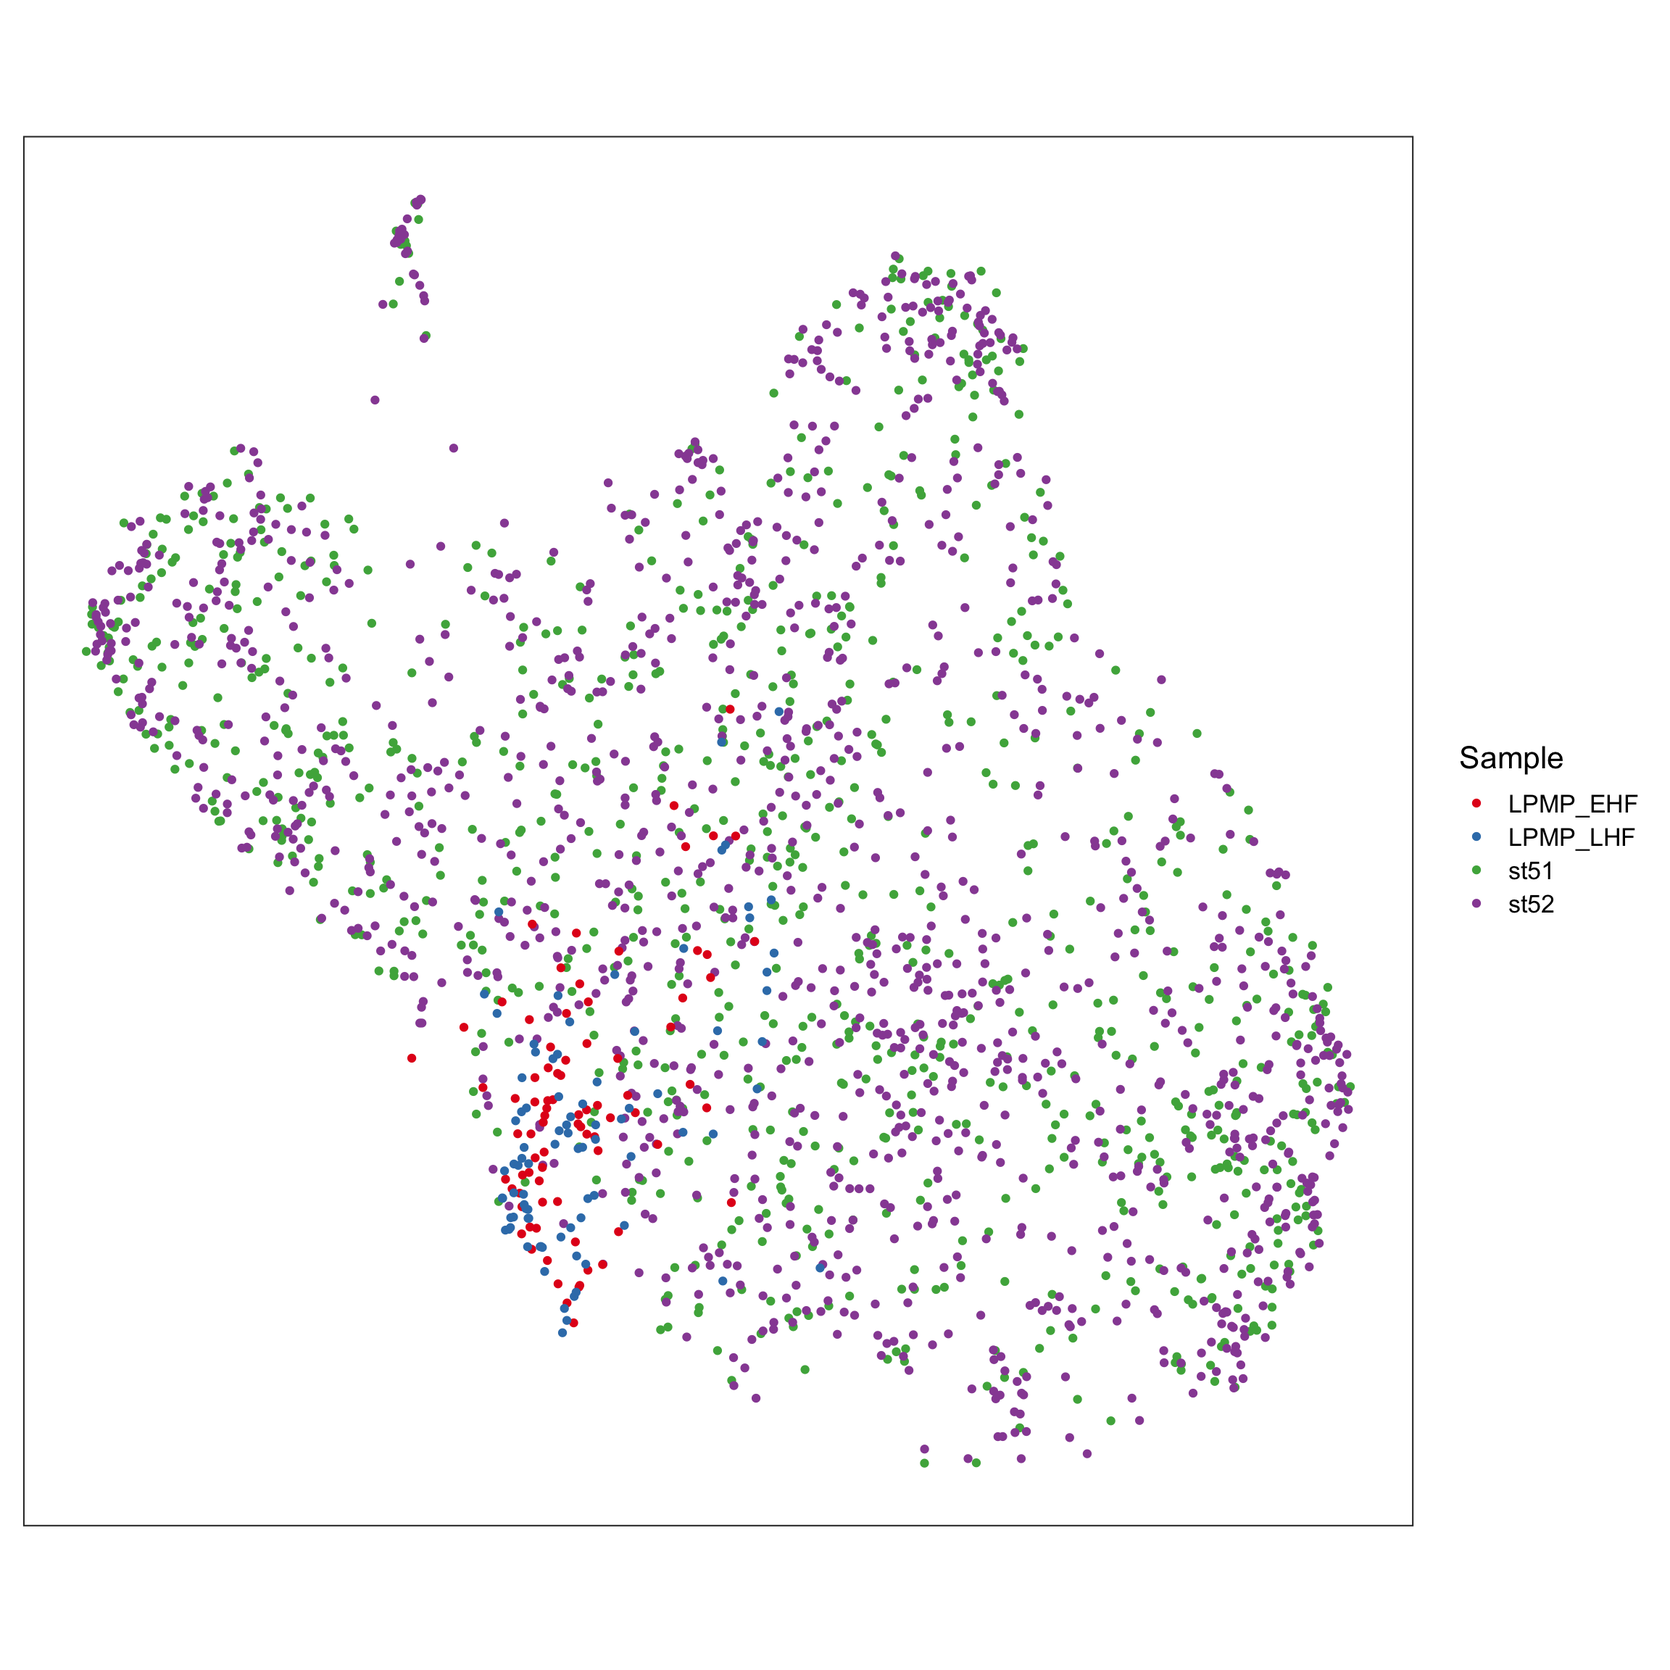
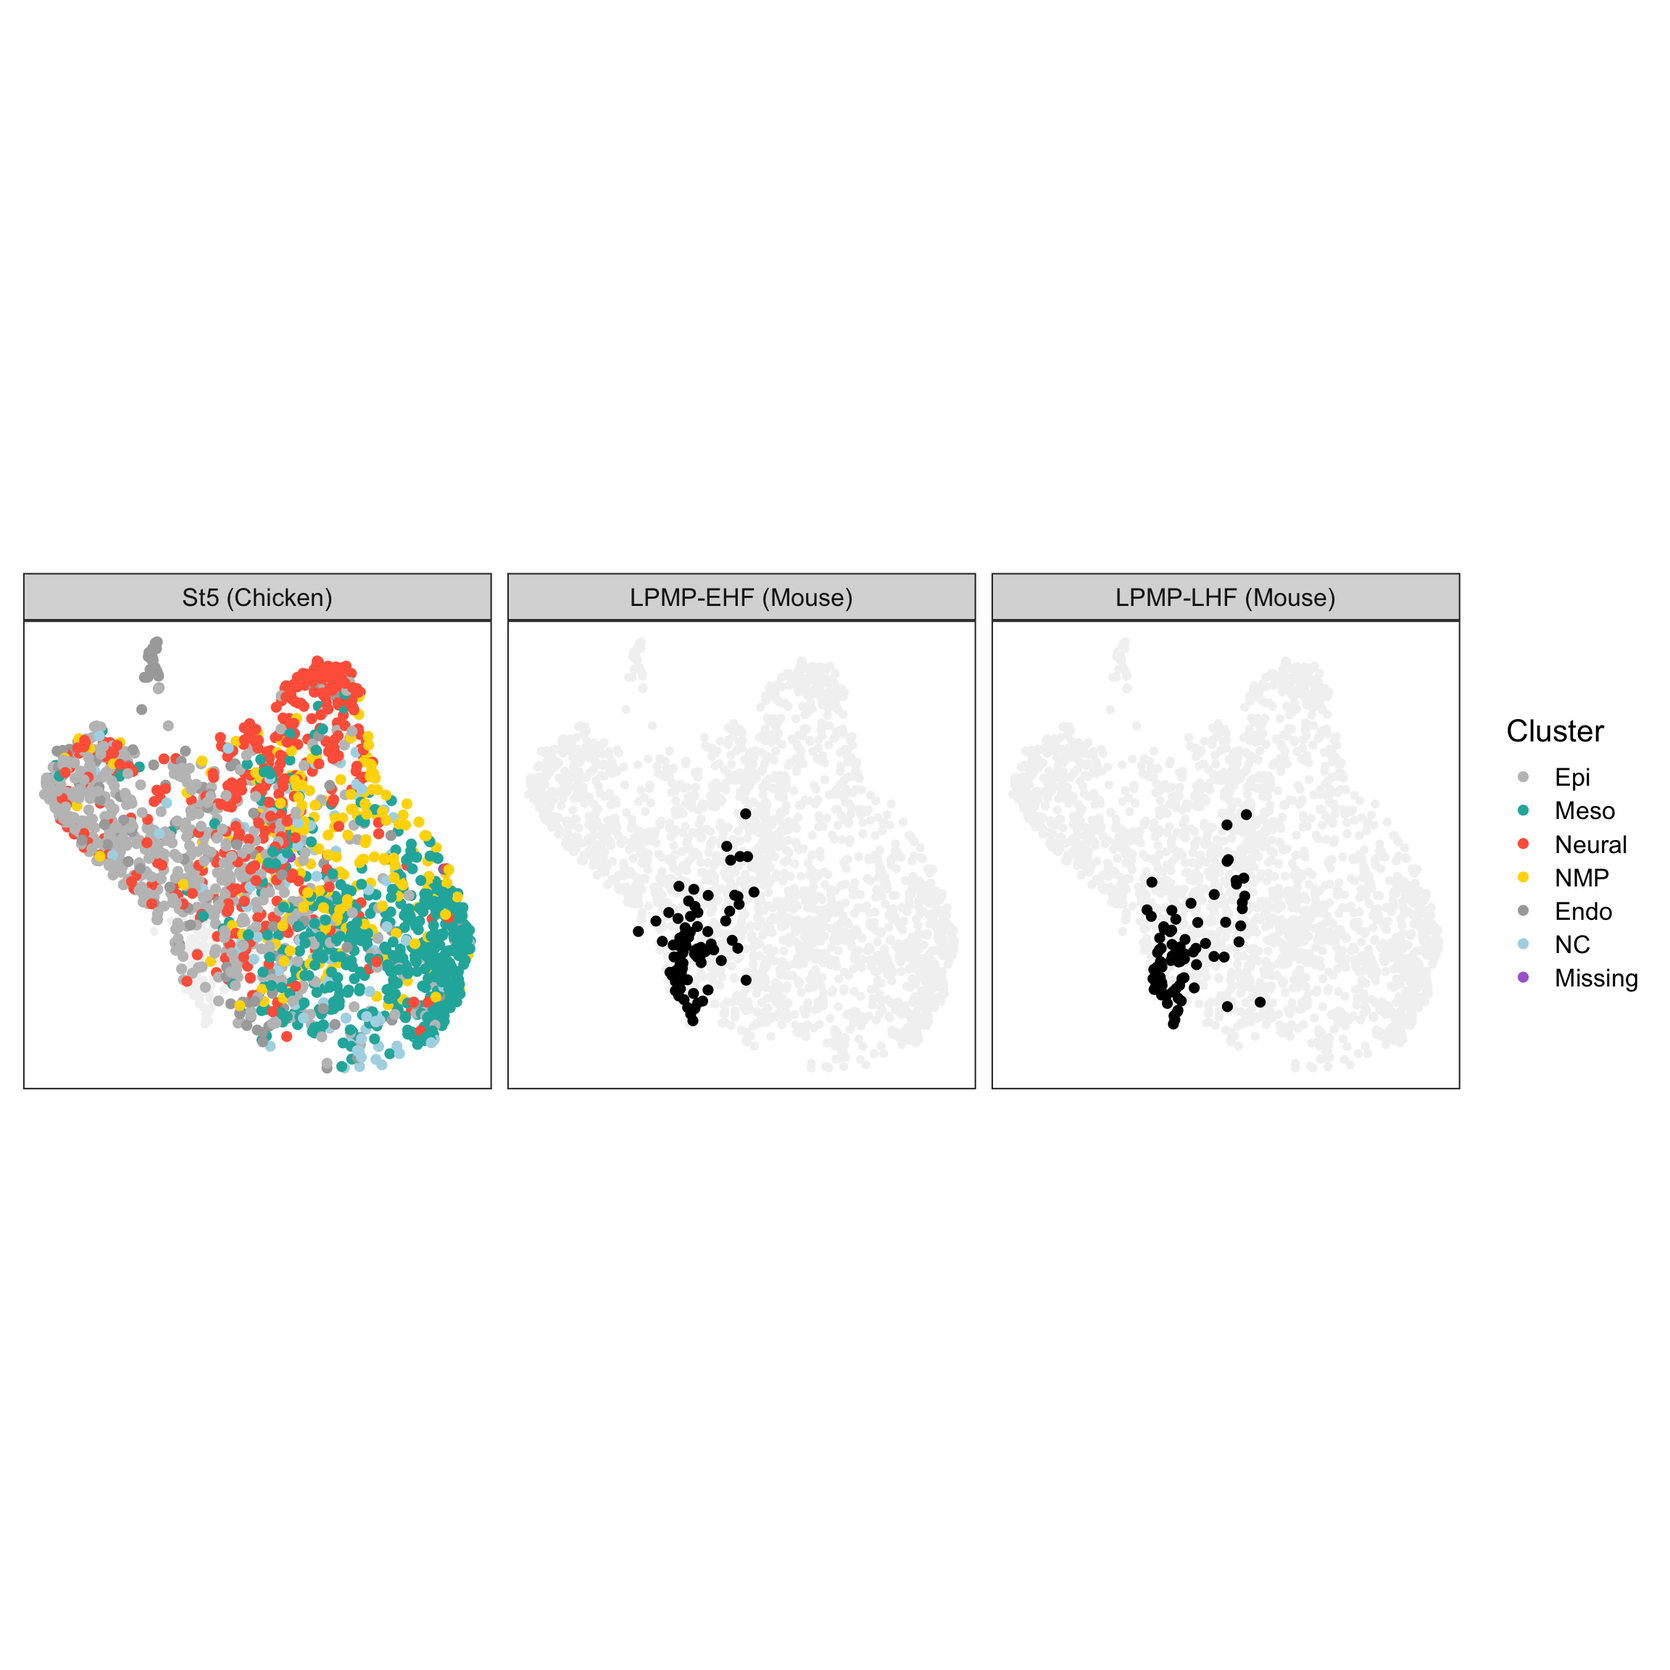
Build

diff --git a/docs/chicken-integration.html b/docs/chicken-integration.html
@@ -438,7 +438,7 @@ div.tocify {
 
 <h1 class="title toc-ignore">Chicken integration</h1>
 <h4 class="author">James Ashmore</h4>
-<h4 class="date">09 August, 2021</h4>
+<h4 class="date">12 August, 2021</h4>
 
 </div>
 
@@ -463,7 +463,7 @@ div.tocify {
 <div class="tab-content">
 <div id="summary" class="tab-pane fade in active">
 <p>
-<strong>Last updated:</strong> 2021-08-09
+<strong>Last updated:</strong> 2021-08-12
 </p>
 <p>
 <strong>Checks:</strong> <span class="glyphicon glyphicon-ok text-success" aria-hidden="true"></span> 7 <span class="glyphicon glyphicon-exclamation-sign text-danger" aria-hidden="true"></span> 0
@@ -554,16 +554,16 @@ This reproducible <a href="http://rmarkdown.rstudio.com">R Markdown</a> analysis
 <div class="panel panel-default">
 <div class="panel-heading">
 <p class="panel-title">
-<a data-toggle="collapse" data-parent="#workflowr-checks" href="#strongRepositoryversionstrongahrefhttpsgithubcomjma1991LPMPtreec57063d603386cb6dfa51f483b18f4ef175c27f2targetblankc57063da"> <span class="glyphicon glyphicon-ok text-success" aria-hidden="true"></span> <strong>Repository version:</strong> <a href="https://github.com/jma1991/LPMP/tree/c57063d603386cb6dfa51f483b18f4ef175c27f2" target="_blank">c57063d</a> </a>
+<a data-toggle="collapse" data-parent="#workflowr-checks" href="#strongRepositoryversionstrongahrefhttpsgithubcomjma1991LPMPtreeab2dfa396d6e3ef20aaee3d99dc838ad254e67e4targetblankab2dfa3a"> <span class="glyphicon glyphicon-ok text-success" aria-hidden="true"></span> <strong>Repository version:</strong> <a href="https://github.com/jma1991/LPMP/tree/ab2dfa396d6e3ef20aaee3d99dc838ad254e67e4" target="_blank">ab2dfa3</a> </a>
 </p>
 </div>
[2 lines of base64/hex data omitted]
 <div class="panel-body">
 <p>
 Great! You are using Git for version control. Tracking code development and connecting the code version to the results is critical for reproducibility.
 </p>
 <p>
-The results in this page were generated with repository version <a href="https://github.com/jma1991/LPMP/tree/c57063d603386cb6dfa51f483b18f4ef175c27f2" target="_blank">c57063d</a>. See the <em>Past versions</em> tab to see a history of the changes made to the R Markdown and HTML files.
+The results in this page were generated with repository version <a href="https://github.com/jma1991/LPMP/tree/ab2dfa396d6e3ef20aaee3d99dc838ad254e67e4" target="_blank">ab2dfa3</a>. See the <em>Past versions</em> tab to see a history of the changes made to the R Markdown and HTML files.
 </p>
 <p>
 Note that you need to be careful to ensure that all relevant files for the analysis have been committed to Git prior to generating the results (you can use <code>wflow_publish</code> or <code>wflow_git_commit</code>). workflowr only checks the R Markdown file, but you know if there are other scripts or data files that it depends on. Below is the status of the Git repository when the results were generated:
@@ -583,7 +583,6 @@ Ignored files:
 
 Unstaged changes:
     Modified:   _workflowr.R
-    Modified:   analysis/_site.yml
 
 </code></pre>
 <p>
@@ -622,6 +621,40 @@ Message
 </tr>
 </thead>
 <tbody>
+<tr>
+<td>
+Rmd
+</td>
+<td>
+<a href="https://github.com/jma1991/LPMP/blob/ab2dfa396d6e3ef20aaee3d99dc838ad254e67e4/analysis/chicken-integration.Rmd" target="_blank">ab2dfa3</a>
+</td>
+<td>
+James Ashmore
+</td>
+<td>
+2021-08-12
+</td>
+<td>
+Build
+</td>
+</tr>
+<tr>
+<td>
+html
+</td>
+<td>
+<a href="https://rawcdn.githack.com/jma1991/LPMP/0ecd480112726273119b8900ecbd6b4ef16d09c2/docs/chicken-integration.html" target="_blank">0ecd480</a>
+</td>
+<td>
+James Ashmore
+</td>
+<td>
+2021-08-09
+</td>
+<td>
+Build
+</td>
+</tr>
 <tr>
 <td>
 html
@@ -1118,10 +1151,43 @@ mnn &lt;- runUMAP(mnn, dimred = &quot;corrected&quot;) # default settings</code>
 <p>Visualize the corrected PCA using a UMAP plot:</p>
 <pre class="r"><code>dat &lt;- makePerCellDF(mnn, use.coldata = TRUE, use.dimred = &quot;UMAP&quot;)
 
-ggplot(dat, aes(UMAP.1, UMAP.2, colour = Sample)) + 
-  geom_point() + 
-  scale_colour_brewer(palette = &quot;Set1&quot;) + 
+dat$batch[dat$batch == &quot;chicken_st5_1&quot;] &lt;- &quot;chicken_st5&quot; # collapse replicates for plotting
+
+dat$batch[dat$batch == &quot;chicken_st5_2&quot;] &lt;- &quot;chicken_st5&quot; # collapse replicates for plotting
+
+dat$Cluster[dat$batch != &quot;chicken_st5&quot;] &lt;- NA # ignore mouse clusters
+
+ChickenClusterColours &lt;- c(
+  &quot;st5_0&quot; = &quot;#c0c0c0&quot;, # Epi
+  &quot;st5_1&quot; = &quot;#20b2aa&quot;, # Meso
+  &quot;st5_2&quot; = &quot;#ff6347&quot;, # Neural
+  &quot;st5_3&quot; = &quot;#ffd700&quot;, # NMP
+  &quot;st5_4&quot; = &quot;#a9a9a9&quot;, # Endo
+  &quot;st5_5&quot; = &quot;#add8e6&quot;, # NC
+  &quot;st5_6&quot; = &quot;#ab6ad5&quot;  # Missing
+)
+
+ChickenClusterLabels &lt;- c(
+  &quot;st5_0&quot; = &quot;Epi&quot;,
+  &quot;st5_1&quot; = &quot;Meso&quot;,
+  &quot;st5_2&quot; = &quot;Neural&quot;,
+  &quot;st5_3&quot; = &quot;NMP&quot;,
+  &quot;st5_4&quot; = &quot;Endo&quot;,
+  &quot;st5_5&quot; = &quot;NC&quot;,
+  &quot;st5_6&quot; = &quot;Missing&quot;
+)
+
+ggplot(dat, aes(UMAP.1, UMAP.2, colour = Cluster)) + 
+  geom_point(data = dat[, c(&quot;UMAP.1&quot;, &quot;UMAP.2&quot;)], colour = &quot;#f2f2f2&quot;) + 
+  geom_point(size = 2) + 
+  scale_colour_manual(values = ChickenClusterColours, labels = ChickenClusterLabels, na.value = &quot;#000000&quot;) + 
   labs(x = &quot;UMAP 1&quot;, y = &quot;UMAP 2&quot;) + 
+  facet_wrap(~ batch, labeller = labeller(
+    batch = c(&quot;chicken_st5&quot; = &quot;St5 (Chicken)&quot;,
+              &quot;mouse_lpmp_ehf&quot; = &quot;LPMP-EHF (Mouse)&quot;,
+              &quot;mouse_lpmp_lhf&quot; = &quot;LPMP-LHF (Mouse)&quot;
+    )
+  )) + 
   theme_no_axes(base.theme = theme_bw(base_size = 16)) + 
   theme(aspect.ratio = 1)</code></pre>
 <p><img src="figure/chicken-integration.Rmd/unnamed-chunk-31-1.png" width="100%" style="display: block; margin: auto;" /></p>
@@ -1149,6 +1215,17 @@ Date
 <tbody>
 <tr>
 <td>
+<a href="https://github.com/jma1991/LPMP/blob/a3f2cb69b2bbc6b7ba3926a999f6644ff59d685c/docs/figure/chicken-integration.Rmd/unnamed-chunk-31-1.png" target="_blank">a3f2cb6</a>
+</td>
+<td>
+James Ashmore
+</td>
+<td>
+2021-08-02
+</td>
+</tr>
+<tr>
+<td>
 <a href="https://github.com/jma1991/LPMP/blob/d7fd80745233322a9123692510bda7e266b748e0/docs/figure/chicken-integration.Rmd/unnamed-chunk-31-1.png" target="_blank">d7fd807</a>
 </td>
 <td>
@@ -1161,93 +1238,6 @@ James Ashmore
 <tr>
 <td>
 <a href="https://github.com/jma1991/LPMP/blob/cece496a9c9d58da0a996db8f1529c8185a9e7d1/docs/figure/chicken-integration.Rmd/unnamed-chunk-31-1.png" target="_blank">cece496</a>
-</td>
-<td>
-James Ashmore
-</td>
-<td>
-2021-07-18
-</td>
-</tr>
-</tbody>
-</table>
-</div>
-</div>
-<p>Visualize the corrected PCA using a UMAP plot:</p>
-<pre class="r"><code>ggplot() + 
-  geom_point(
-    data = subset(dat, Sample %in% c(&quot;st51&quot;, &quot;st52&quot;)),
-    mapping = aes(UMAP.1, UMAP.2, colour = Cluster),
-  ) + 
-  geom_point(
-    data = subset(dat, Sample == &quot;LPMP_EHF&quot;),
-    mapping = aes(UMAP.1, UMAP.2),
-    colour = &quot;black&quot;
-  ) + 
-  geom_point(
-    data = subset(dat, Sample == &quot;LPMP_LHF&quot;),
-    mapping = aes(UMAP.1, UMAP.2),
-    colour = &quot;maroon1&quot;
-  ) + 
-  scale_colour_manual(
-    values = c(
-      &quot;st5_0&quot; = &quot;#c0c0c0&quot;, # Epi
-      &quot;st5_1&quot; = &quot;#20b2aa&quot;, # Meso
-      &quot;st5_2&quot; = &quot;#ff6347&quot;, # Neural
-      &quot;st5_3&quot; = &quot;#ffd700&quot;, # NMP
-      &quot;st5_4&quot; = &quot;#a9a9a9&quot;, # Endo
-      &quot;st5_5&quot; = &quot;#add8e6&quot;, # NC
-      &quot;st5_6&quot; = &quot;#ffffff&quot;  # Missing
-    ),
-    labels = c(
-      &quot;st5_0&quot; = &quot;Epi&quot;, # Epi
-      &quot;st5_1&quot; = &quot;Meso&quot;, # Meso
-      &quot;st5_2&quot; = &quot;Neural&quot;, # Neural
-      &quot;st5_3&quot; = &quot;NMP&quot;, # NMP
-      &quot;st5_4&quot; = &quot;Endo&quot;, # Endo
-      &quot;st5_5&quot; = &quot;NC&quot;, # NC
-      &quot;st5_6&quot; = &quot;Missing&quot;  # Missing      
-    )
-  ) + 
-  theme_no_axes(base.theme = theme_bw(base_size = 16)) + 
-  theme(aspect.ratio = 1)</code></pre>
-<p><img src="figure/chicken-integration.Rmd/unnamed-chunk-32-1.png" width="100%" style="display: block; margin: auto;" /></p>
-<p>
-<button type="button" class="btn btn-default btn-xs btn-workflowr btn-workflowr-fig" data-toggle="collapse" data-target="#fig-unnamed-chunk-32-1">
-Past versions of unnamed-chunk-32-1.png
-</button>
-</p>
-<div id="fig-unnamed-chunk-32-1" class="collapse">
-<div class="table-responsive">
-<table class="table table-condensed table-hover">
-<thead>
-<tr>
-<th>
-Version
-</th>
-<th>
-Author
-</th>
-<th>
-Date
-</th>
-</tr>
-</thead>
-<tbody>
-<tr>
-<td>
-<a href="https://github.com/jma1991/LPMP/blob/d7fd80745233322a9123692510bda7e266b748e0/docs/figure/chicken-integration.Rmd/unnamed-chunk-32-1.png" target="_blank">d7fd807</a>
-</td>
-<td>
-James Ashmore
-</td>
-<td>
-2021-08-02
-</td>
-</tr>
-<tr>
-<td>
-<a href="https://github.com/jma1991/LPMP/blob/cece496a9c9d58da0a996db8f1529c8185a9e7d1/docs/figure/chicken-integration.Rmd/unnamed-chunk-32-1.png" target="_blank">cece496</a>
 </td>
 <td>
 James Ashmore
@@ -1284,7 +1274,7 @@ locale:
 [1] en_GB.UTF-8/en_GB.UTF-8/en_GB.UTF-8/C/en_GB.UTF-8/en_GB.UTF-8
 
 attached base packages:
-[1] parallel  stats4    stats     graphics  grDevices datasets  utils    
+[1] stats4    parallel  stats     graphics  grDevices datasets  utils    
 [8] methods   base     
 
 other attached packages:
@@ -1306,50 +1296,48 @@ loaded via a namespace (and not attached):
  [5] bluster_1.0.0             XVector_0.30.0           
  [7] BiocNeighbors_1.8.2       fs_1.5.0                 
  [9] farver_2.1.0              bit64_4.0.5              
-[11] RSpectra_0.16-0           fansi_0.5.0              
-[13] codetools_0.2-18          sparseMatrixStats_1.2.1  
-[15] cachem_1.0.5              knitr_1.33               
-[17] polyclip_1.10-0           jsonlite_1.7.2           
-[19] ResidualMatrix_1.0.0      uwot_0.1.10              
-[21] compiler_4.0.2            dqrng_0.3.0              
-[23] assertthat_0.2.1          Matrix_1.3-4             
-[25] fastmap_1.1.0             limma_3.46.0             
-[27] later_1.2.0               tweenr_1.0.2             
-[29] BiocSingular_1.6.0        htmltools_0.5.1.1        
-[31] tools_4.0.2               rsvd_1.0.5               
-[33] igraph_1.2.6              gtable_0.3.0             
-[35] glue_1.4.2                GenomeInfoDbData_1.2.4   
-[37] dplyr_1.0.7               Rcpp_1.0.7               
-[39] jquerylib_0.1.4           vctrs_0.3.8              
-[41] DelayedMatrixStats_1.12.3 xfun_0.24                
-[43] stringr_1.4.0             beachmat_2.6.4           
-[45] lifecycle_1.0.0           irlba_2.3.3              
-[47] renv_0.13.2               statmod_1.4.36           
-[49] edgeR_3.32.1              zlibbioc_1.36.0          
-[51] MASS_7.3-54               scales_1.1.1             
-[53] promises_1.2.0.1          RColorBrewer_1.1-2       
-[55] yaml_2.2.1                memoise_2.0.0            
-[57] gridExtra_2.3             sass_0.4.0               
-[59] stringi_1.7.2             RSQLite_2.2.7            
-[61] highr_0.9                 BiocParallel_1.24.1      
-[63] rlang_0.4.11              pkgconfig_2.0.3          
-[65] bitops_1.0-7              evaluate_0.14            
-[67] lattice_0.20-44           purrr_0.3.4              
-[69] labeling_0.4.2            bit_4.0.4                
-[71] tidyselect_1.1.1          magrittr_2.0.1           
-[73] R6_2.5.0                  generics_0.1.0           
-[75] DelayedArray_0.16.3       DBI_1.1.1                
-[77] pillar_1.6.1              whisker_0.4              
-[79] withr_2.4.2               RCurl_1.98-1.3           
-[81] tibble_3.1.2              crayon_1.4.1             
-[83] utf8_1.2.1                rmarkdown_2.9            
-[85] viridis_0.6.1             locfit_1.5-9.4           
-[87] grid_4.0.2                FNN_1.1.3                
-[89] blob_1.2.1                git2r_0.28.0             
-[91] digest_0.6.27             httpuv_1.6.1             
-[93] munsell_0.5.0             beeswarm_0.4.0           
-[95] viridisLite_0.4.0         vipor_0.4.5              
-[97] bslib_0.2.5.1            </code></pre>
+[11] fansi_0.5.0               codetools_0.2-18         
+[13] sparseMatrixStats_1.2.1   cachem_1.0.5             
+[15] knitr_1.33                polyclip_1.10-0          
+[17] jsonlite_1.7.2            ResidualMatrix_1.0.0     
+[19] compiler_4.0.2            dqrng_0.3.0              
+[21] assertthat_0.2.1          Matrix_1.3-4             
+[23] fastmap_1.1.0             limma_3.46.0             
+[25] later_1.2.0               tweenr_1.0.2             
+[27] BiocSingular_1.6.0        htmltools_0.5.1.1        
+[29] tools_4.0.2               rsvd_1.0.5               
+[31] igraph_1.2.6              gtable_0.3.0             
+[33] glue_1.4.2                GenomeInfoDbData_1.2.4   
+[35] dplyr_1.0.7               Rcpp_1.0.7               
+[37] jquerylib_0.1.4           vctrs_0.3.8              
+[39] DelayedMatrixStats_1.12.3 xfun_0.24                
+[41] stringr_1.4.0             beachmat_2.6.4           
+[43] lifecycle_1.0.0           irlba_2.3.3              
+[45] renv_0.13.2               statmod_1.4.36           
+[47] edgeR_3.32.1              zlibbioc_1.36.0          
+[49] MASS_7.3-54               scales_1.1.1             
+[51] promises_1.2.0.1          RColorBrewer_1.1-2       
+[53] yaml_2.2.1                memoise_2.0.0            
+[55] gridExtra_2.3             sass_0.4.0               
+[57] stringi_1.7.2             RSQLite_2.2.7            
+[59] highr_0.9                 BiocParallel_1.24.1      
+[61] rlang_0.4.11              pkgconfig_2.0.3          
+[63] bitops_1.0-7              evaluate_0.14            
+[65] lattice_0.20-44           purrr_0.3.4              
+[67] labeling_0.4.2            bit_4.0.4                
+[69] tidyselect_1.1.1          magrittr_2.0.1           
+[71] R6_2.5.0                  generics_0.1.0           
+[73] DelayedArray_0.16.3       DBI_1.1.1                
+[75] pillar_1.6.1              whisker_0.4              
+[77] withr_2.4.2               RCurl_1.98-1.3           
+[79] tibble_3.1.2              crayon_1.4.1             
+[81] utf8_1.2.1                rmarkdown_2.9            
+[83] viridis_0.6.1             locfit_1.5-9.4           
+[85] grid_4.0.2                blob_1.2.1               
+[87] git2r_0.28.0              digest_0.6.27            
+[89] httpuv_1.6.1              munsell_0.5.0            
+[91] beeswarm_0.4.0            viridisLite_0.4.0        
+[93] vipor_0.4.5               bslib_0.2.5.1            </code></pre>
 </div>
 </div>
 

diff --git a/docs/index.html b/docs/index.html
@@ -415,16 +415,16 @@ This reproducible <a href="http://rmarkdown.rstudio.com">R Markdown</a> analysis
 <div class="panel panel-default">
 <div class="panel-heading">
 <p class="panel-title">
-<a data-toggle="collapse" data-parent="#workflowr-checks" href="#strongRepositoryversionstrongahrefhttpsgithubcomjma1991LPMPtree98e83eae5a48dd503dfd295a90d7152e4f685100targetblank98e83eaa"> <span class="glyphicon glyphicon-ok text-success" aria-hidden="true"></span> <strong>Repository version:</strong> <a href="https://github.com/jma1991/LPMP/tree/98e83eae5a48dd503dfd295a90d7152e4f685100" target="_blank">98e83ea</a> </a>
+<a data-toggle="collapse" data-parent="#workflowr-checks" href="#strongRepositoryversionstrongahrefhttpsgithubcomjma1991LPMPtreeab2dfa396d6e3ef20aaee3d99dc838ad254e67e4targetblankab2dfa3a"> <span class="glyphicon glyphicon-ok text-success" aria-hidden="true"></span> <strong>Repository version:</strong> <a href="https://github.com/jma1991/LPMP/tree/ab2dfa396d6e3ef20aaee3d99dc838ad254e67e4" target="_blank">ab2dfa3</a> </a>
 </p>
 </div>
[2 lines of base64/hex data omitted]
 <div class="panel-body">
 <p>
 Great! You are using Git for version control. Tracking code development and connecting the code version to the results is critical for reproducibility.
 </p>
 <p>
-The results in this page were generated with repository version <a href="https://github.com/jma1991/LPMP/tree/98e83eae5a48dd503dfd295a90d7152e4f685100" target="_blank">98e83ea</a>. See the <em>Past versions</em> tab to see a history of the changes made to the R Markdown and HTML files.
+The results in this page were generated with repository version <a href="https://github.com/jma1991/LPMP/tree/ab2dfa396d6e3ef20aaee3d99dc838ad254e67e4" target="_blank">ab2dfa3</a>. See the <em>Past versions</em> tab to see a history of the changes made to the R Markdown and HTML files.
 </p>
 <p>
 Note that you need to be careful to ensure that all relevant files for the analysis have been committed to Git prior to generating the results (you can use <code>wflow_publish</code> or <code>wflow_git_commit</code>). workflowr only checks the R Markdown file, but you know if there are other scripts or data files that it depends on. Below is the status of the Git repository when the results were generated:
@@ -482,6 +482,23 @@ Message
 </tr>
 </thead>
 <tbody>
+<tr>
+<td>
+html
+</td>
+<td>
+<a href="https://rawcdn.githack.com/jma1991/LPMP/69f7e9028bba7d24494e63861e07d4084918b64a/docs/index.html" target="_blank">69f7e90</a>
+</td>
+<td>
+James Ashmore
+</td>
+<td>
+2021-08-12
+</td>
+<td>
+Build
+</td>
+</tr>
 <tr>
 <td>
 html
